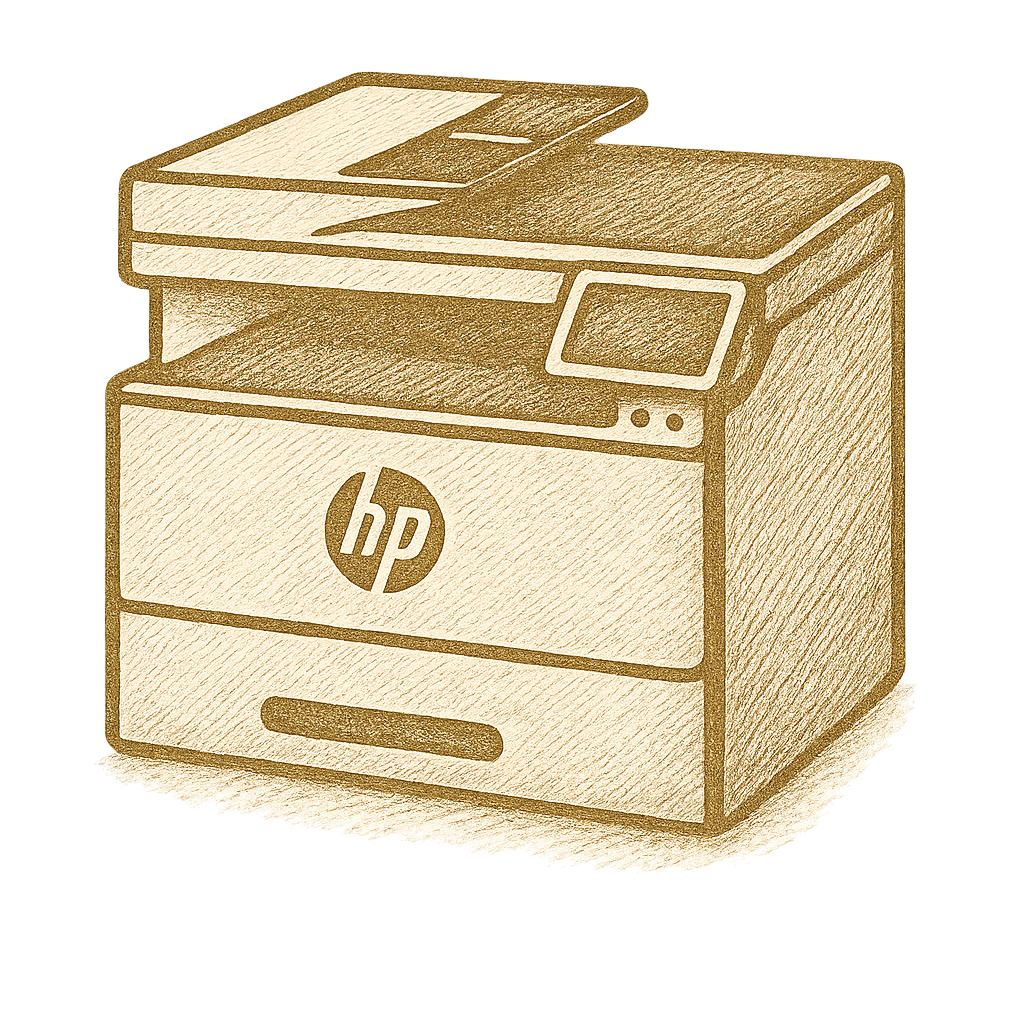
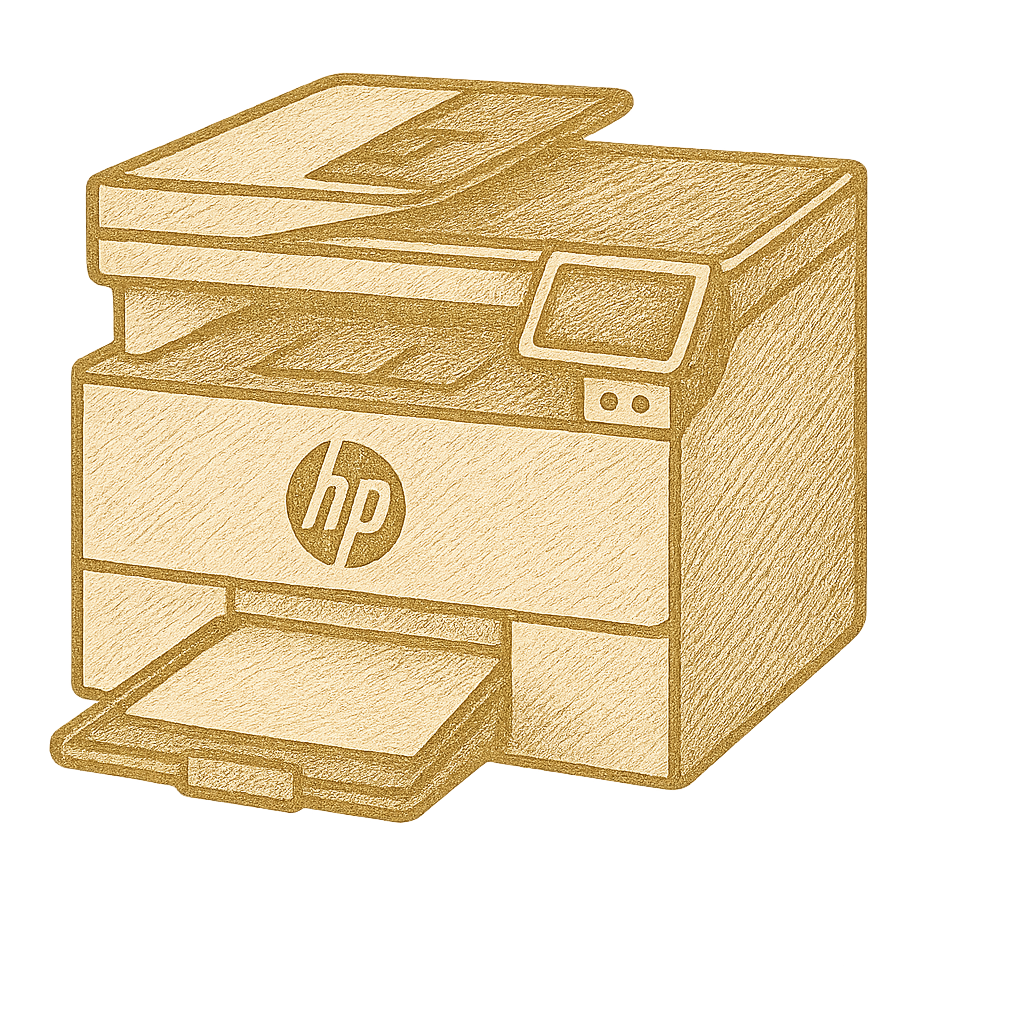
Auto backup: 2025-12-03 23:30

diff --git a/omobonus-serwis-v3/src/app/uslugi/service-accordion.tsx b/omobonus-serwis-v3/src/app/uslugi/service-accordion.tsx
@@ -785,6 +785,20 @@ const DEVICE_CATEGORIES = [
   },
 ]
 
+// Функция для получения пути к картинке принтера по названию категории
+const getPrinterImageForCategory = (categoryTitle: string): string => {
+  switch (categoryTitle) {
+    case 'Drukarka domowa':
+      return '/images/Drukarka_domowa.png'
+    case 'Drukarka biurowa':
+      return '/images/A4_MFU_kolor.png'
+    case 'Drukarka biznesowa':
+      return '/images/MFU A3A4 (mono).png'
+    default:
+      return ''
+  }
+}
+
 const SPECIAL_TOOLTIP_SERVICES = new Set([
   'serwis-drukarek-laserowych',
   'serwis-drukarek-atramentowych',
@@ -862,9 +876,20 @@ const ServiceAccordion = ({ service }: { service: ServiceData }) => {
               >
                 <div>
                   <div className="text-xl font-cormorant font-semibold text-white">{category.title}</div>
-                  <p className="text-xs md:text-sm text-[#f0dfbd] leading-snug mt-1 whitespace-pre-line">
+                  <p className="text-xs md:text-sm text-[rgba(255,255,245,0.85)] leading-snug mt-1 whitespace-pre-line">
                     {category.description}
                   </p>
+                </div>
+                {/* Добавление картинки принтера */}
+                <div className="flex justify-center items-center my-3">
+                  <Image
+                    src={getPrinterImageForCategory(category.title)}
+                    alt={category.title}
+                    width={200}
+                    height={150}
+                    className="w-[150px] md:w-[200px] h-auto object-contain"
+                    unoptimized
+                  />
                 </div>
                 <p className="text-[13px] text-[rgba(255,255,245,0.85)] leading-snug font-table-sub text-center mt-auto pt-2">
                   {category.features.join(', ')}

diff --git a/omobonus-serwis-v3/src/app/uslugi/[slug]/page.tsx b/omobonus-serwis-v3/src/app/uslugi/[slug]/page.tsx
@@ -40,14 +40,9 @@ export default async function ServicePage({
               {service.title}
             </h1>
             {service.slug === 'wynajem-drukarek' ? (
-              <div className="mt-[6px] max-w-3xl mx-auto space-y-1">
-                <p className="text-[18px] text-[#bfa76a] font-cormorant italic leading-tight font-semibold drop-shadow-2xl">
-                  Wynajmij drukarkę z serwisem i tonerem w cenie. Bez ukrytych kosztów. W cenie serwis i materiały.
-                </p>
-                <p className="text-[18px] text-[#bfa76a] font-cormorant italic leading-tight font-semibold drop-shadow-2xl">
-                  Ty martwisz się tylko o papier i prąd. Zapomnij o problemach z serwisem lub kończącym się tonerem.
-                </p>
-              </div>
+              <p className="mt-[6px] text-[18px] text-[#bfa76a] font-cormorant italic leading-tight max-w-3xl mx-auto font-semibold drop-shadow-2xl">
+                Drukarka z serwisem i tonerem w cenie — Ty dbasz tylko o papier i prąd.
+              </p>
             ) : (
               <p className="mt-[6px] text-[18px] text-[#bfa76a] font-cormorant italic leading-tight max-w-3xl mx-auto font-semibold drop-shadow-2xl">
                 Pełny wykaz usług i cen, bez ukrytych kosztów (nie "naprawa od 50 zł" lub "cena do uzgodnienia")
